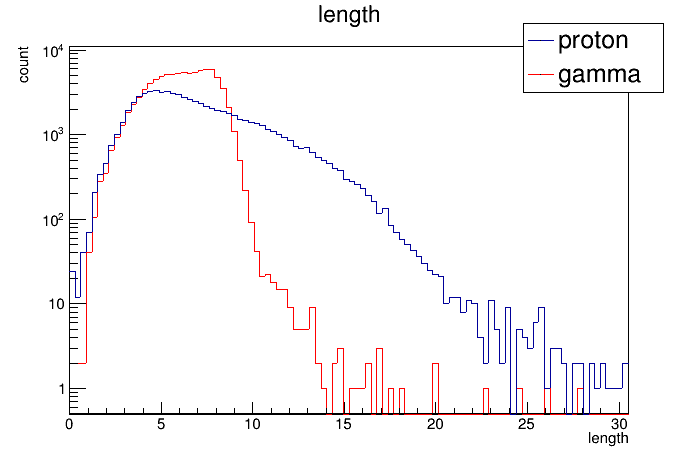
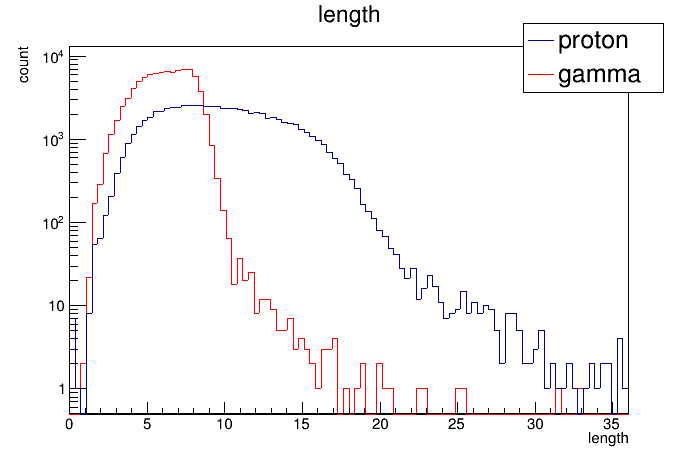
modify width length calculation

diff --git a/taiga_test_mc/hillas/hillas.C b/taiga_test_mc/hillas/hillas.C
@@ -1,6 +1,6 @@
 void hillas()
 {
-  TString particle = "gamma";
+  TString particle = "proton";
   TFile *file = new TFile("../output/" + particle + ".root");
   if (file->IsZombie()) {
     cerr << "Can't read input file!" << endl;
@@ -76,7 +76,6 @@ void hillas()
     Double_t cxx = curX2No - curXNo*curXNo;
     Double_t cyy = curY2No - curYNo*curYNo;
     Double_t cxy = curXYNo - curXNo*curYNo;
-    Double_t checker = curXNo*curXNo + curYNo*curYNo;
     Double_t d = cyy - cxx;
     Double_t z = TMath::Sqrt(d*d + 4.*cxy*cxy);
     Double_t u = 1. + d/z;
@@ -84,6 +83,7 @@ void hillas()
     miss = 0.5*(u*curXNo*curXNo + v*curYNo*curYNo) - 2.*cxy*curXNo*curYNo/z;
     alpha = asin(miss/dist)*TMath::RadToDeg();
 
+    Double_t checker = curXNo*curXNo + curYNo*curYNo;
     dist = TMath::Sqrt(checker);
     //cout << dist << endl;
     checker = curXNo*curXNo*curY2No - 2.*curXNo*curYNo*curXYNo + curX2No*curYNo*curYNo;
@@ -91,23 +91,10 @@ void hillas()
       azwidth = TMath::Sqrt(checker / dist / dist);
     }
 
-    Double_t aCof = curYNo / curXNo;
-    checker = (cxx + 2.*aCof*cxy + aCof*aCof*cyy) / (1. + aCof*aCof);
-    if (checker < 0) {
-        cerr << "WARNING!!! sqrt(< 0)!!!" << endl;
-        cout << "Event: " << i << endl;
-    }
-    else {
-      length = TMath::Sqrt(checker);
-    }
-    checker = (aCof*aCof*cxx - 2.*aCof*cxy + cyy) / (1. + aCof*aCof);
-    if (checker < 0) {
-      cerr << "WARNING!!! sqrt(< 0)!!!" << endl;
-      cout << "Event: " << i << endl;
-    }
-    else {
-      width = TMath::Sqrt(checker);
-    }
+
+    length = TMath::Sqrt(0.5*(cxx + cyy + z));
+    width = TMath::Sqrt(0.5*(cxx + cyy - z));
+
     outTree->Fill();
   }
 
